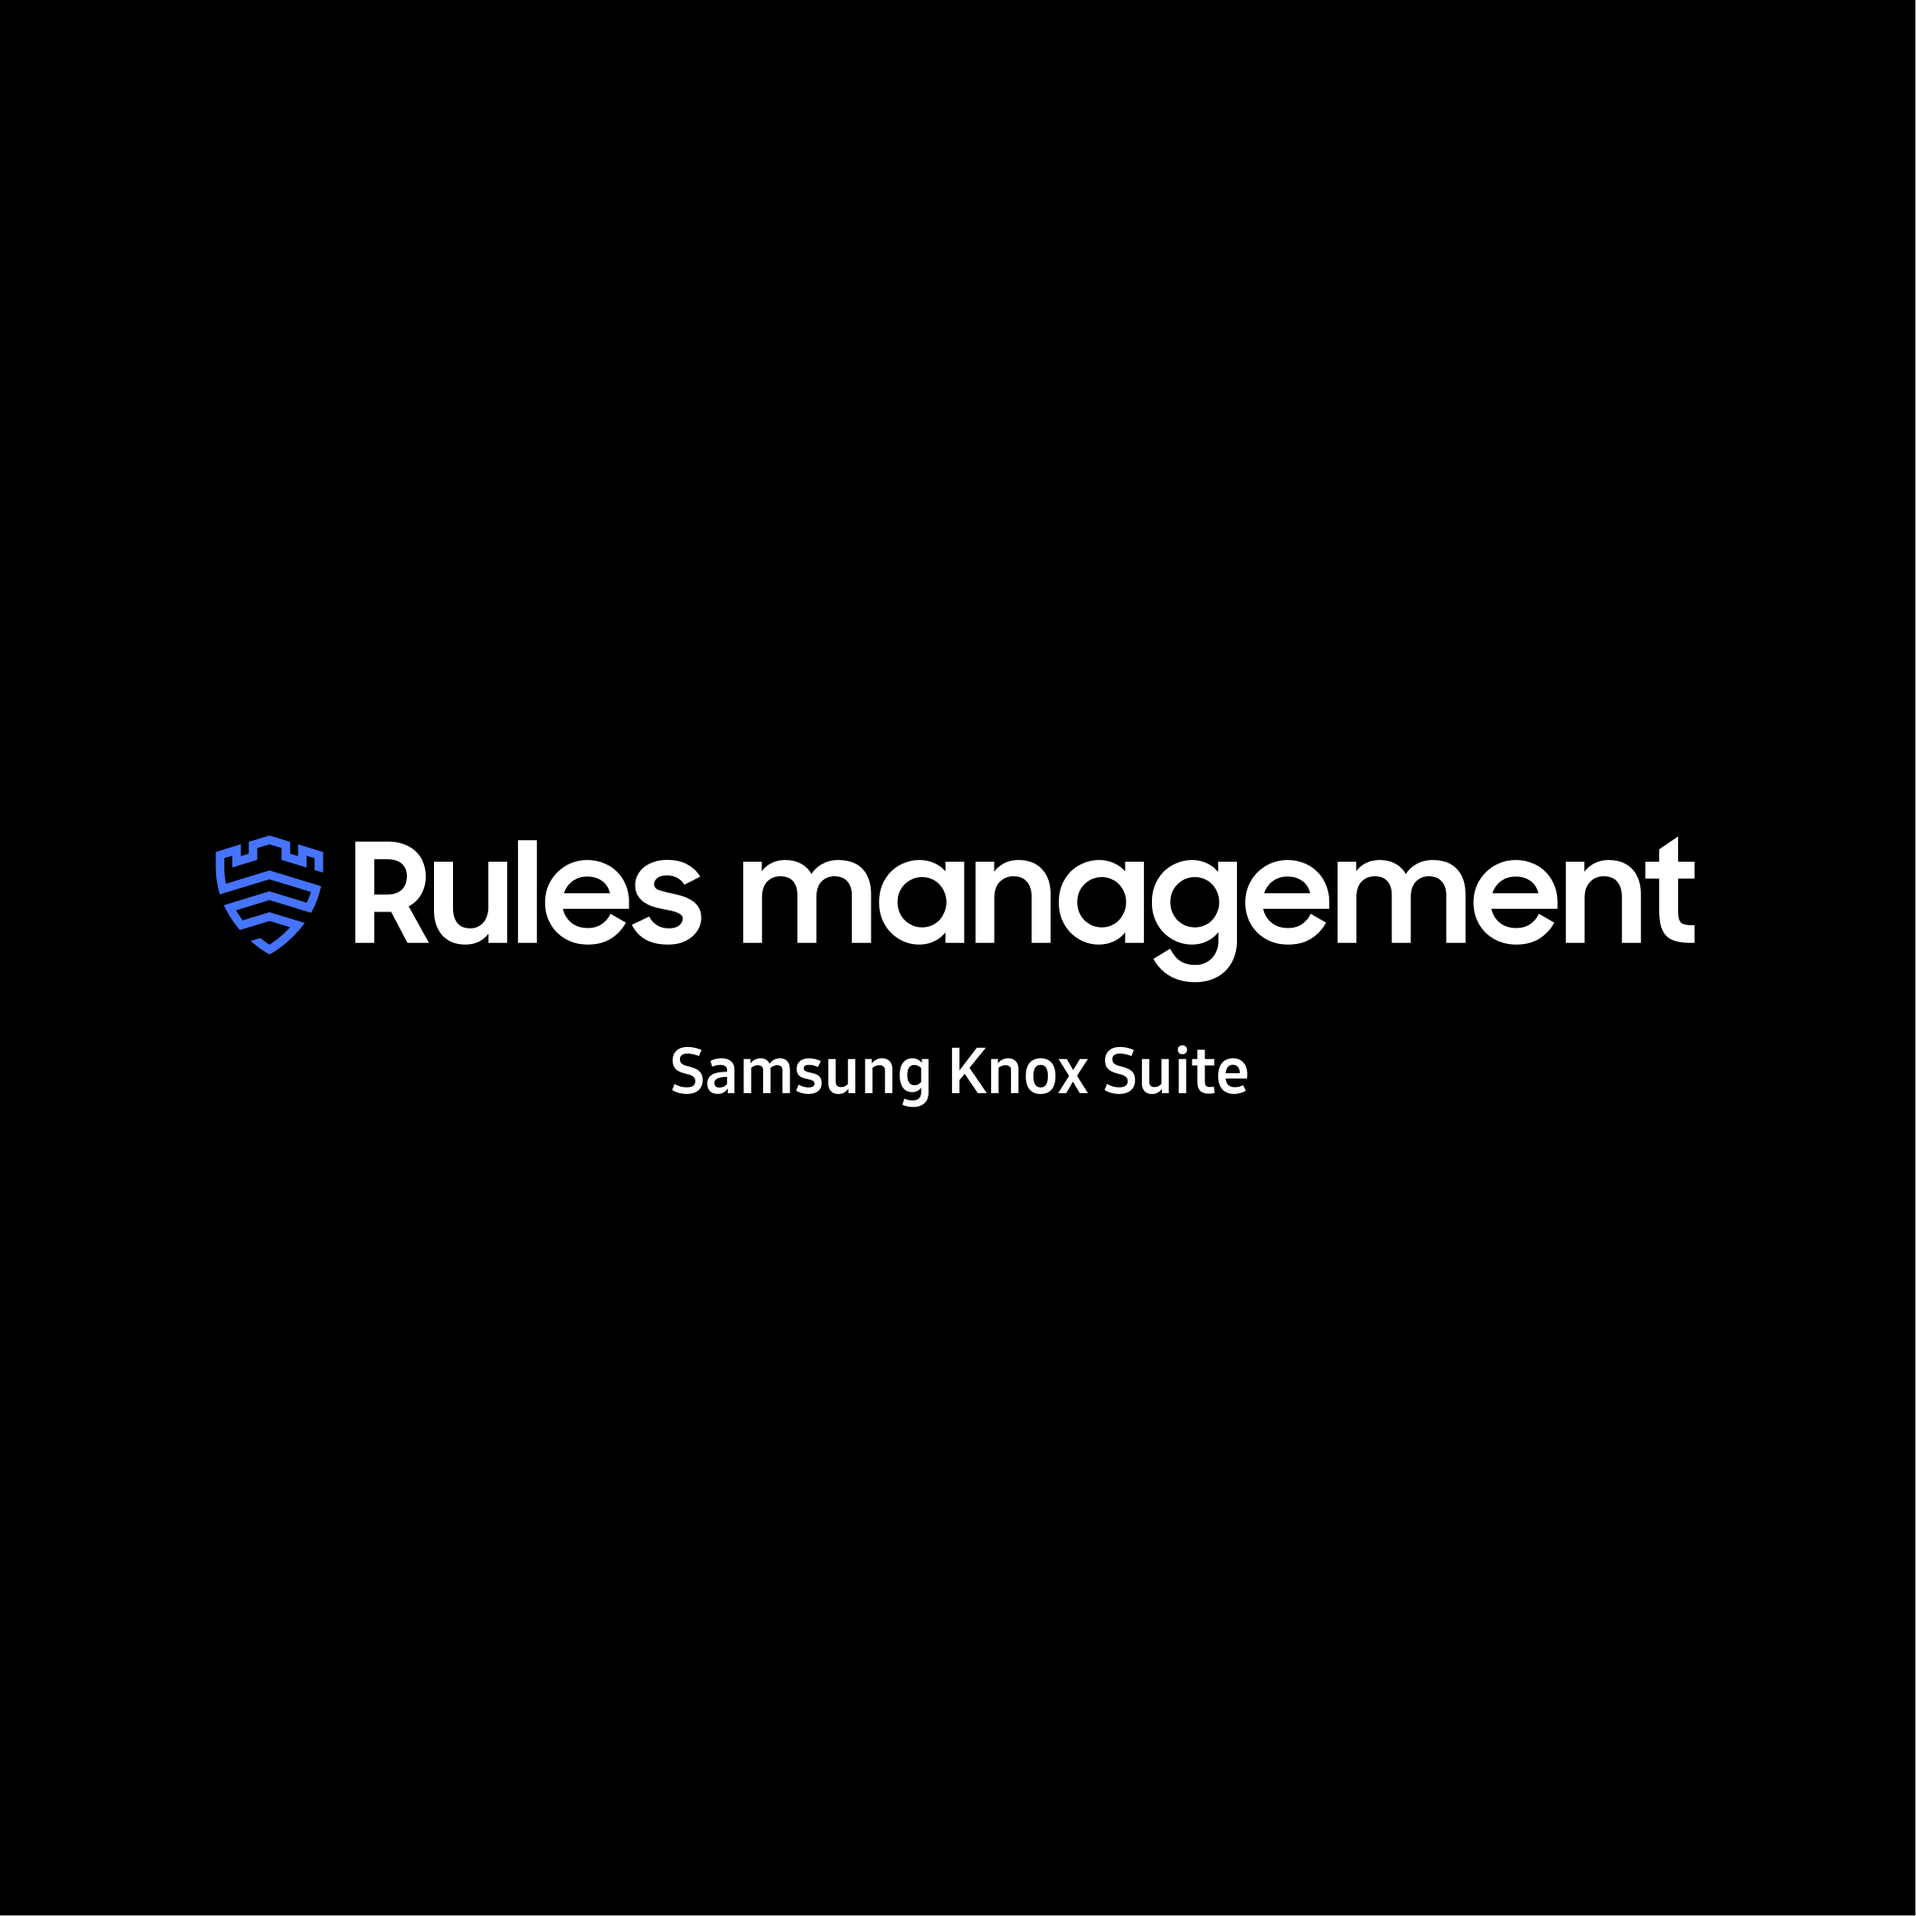
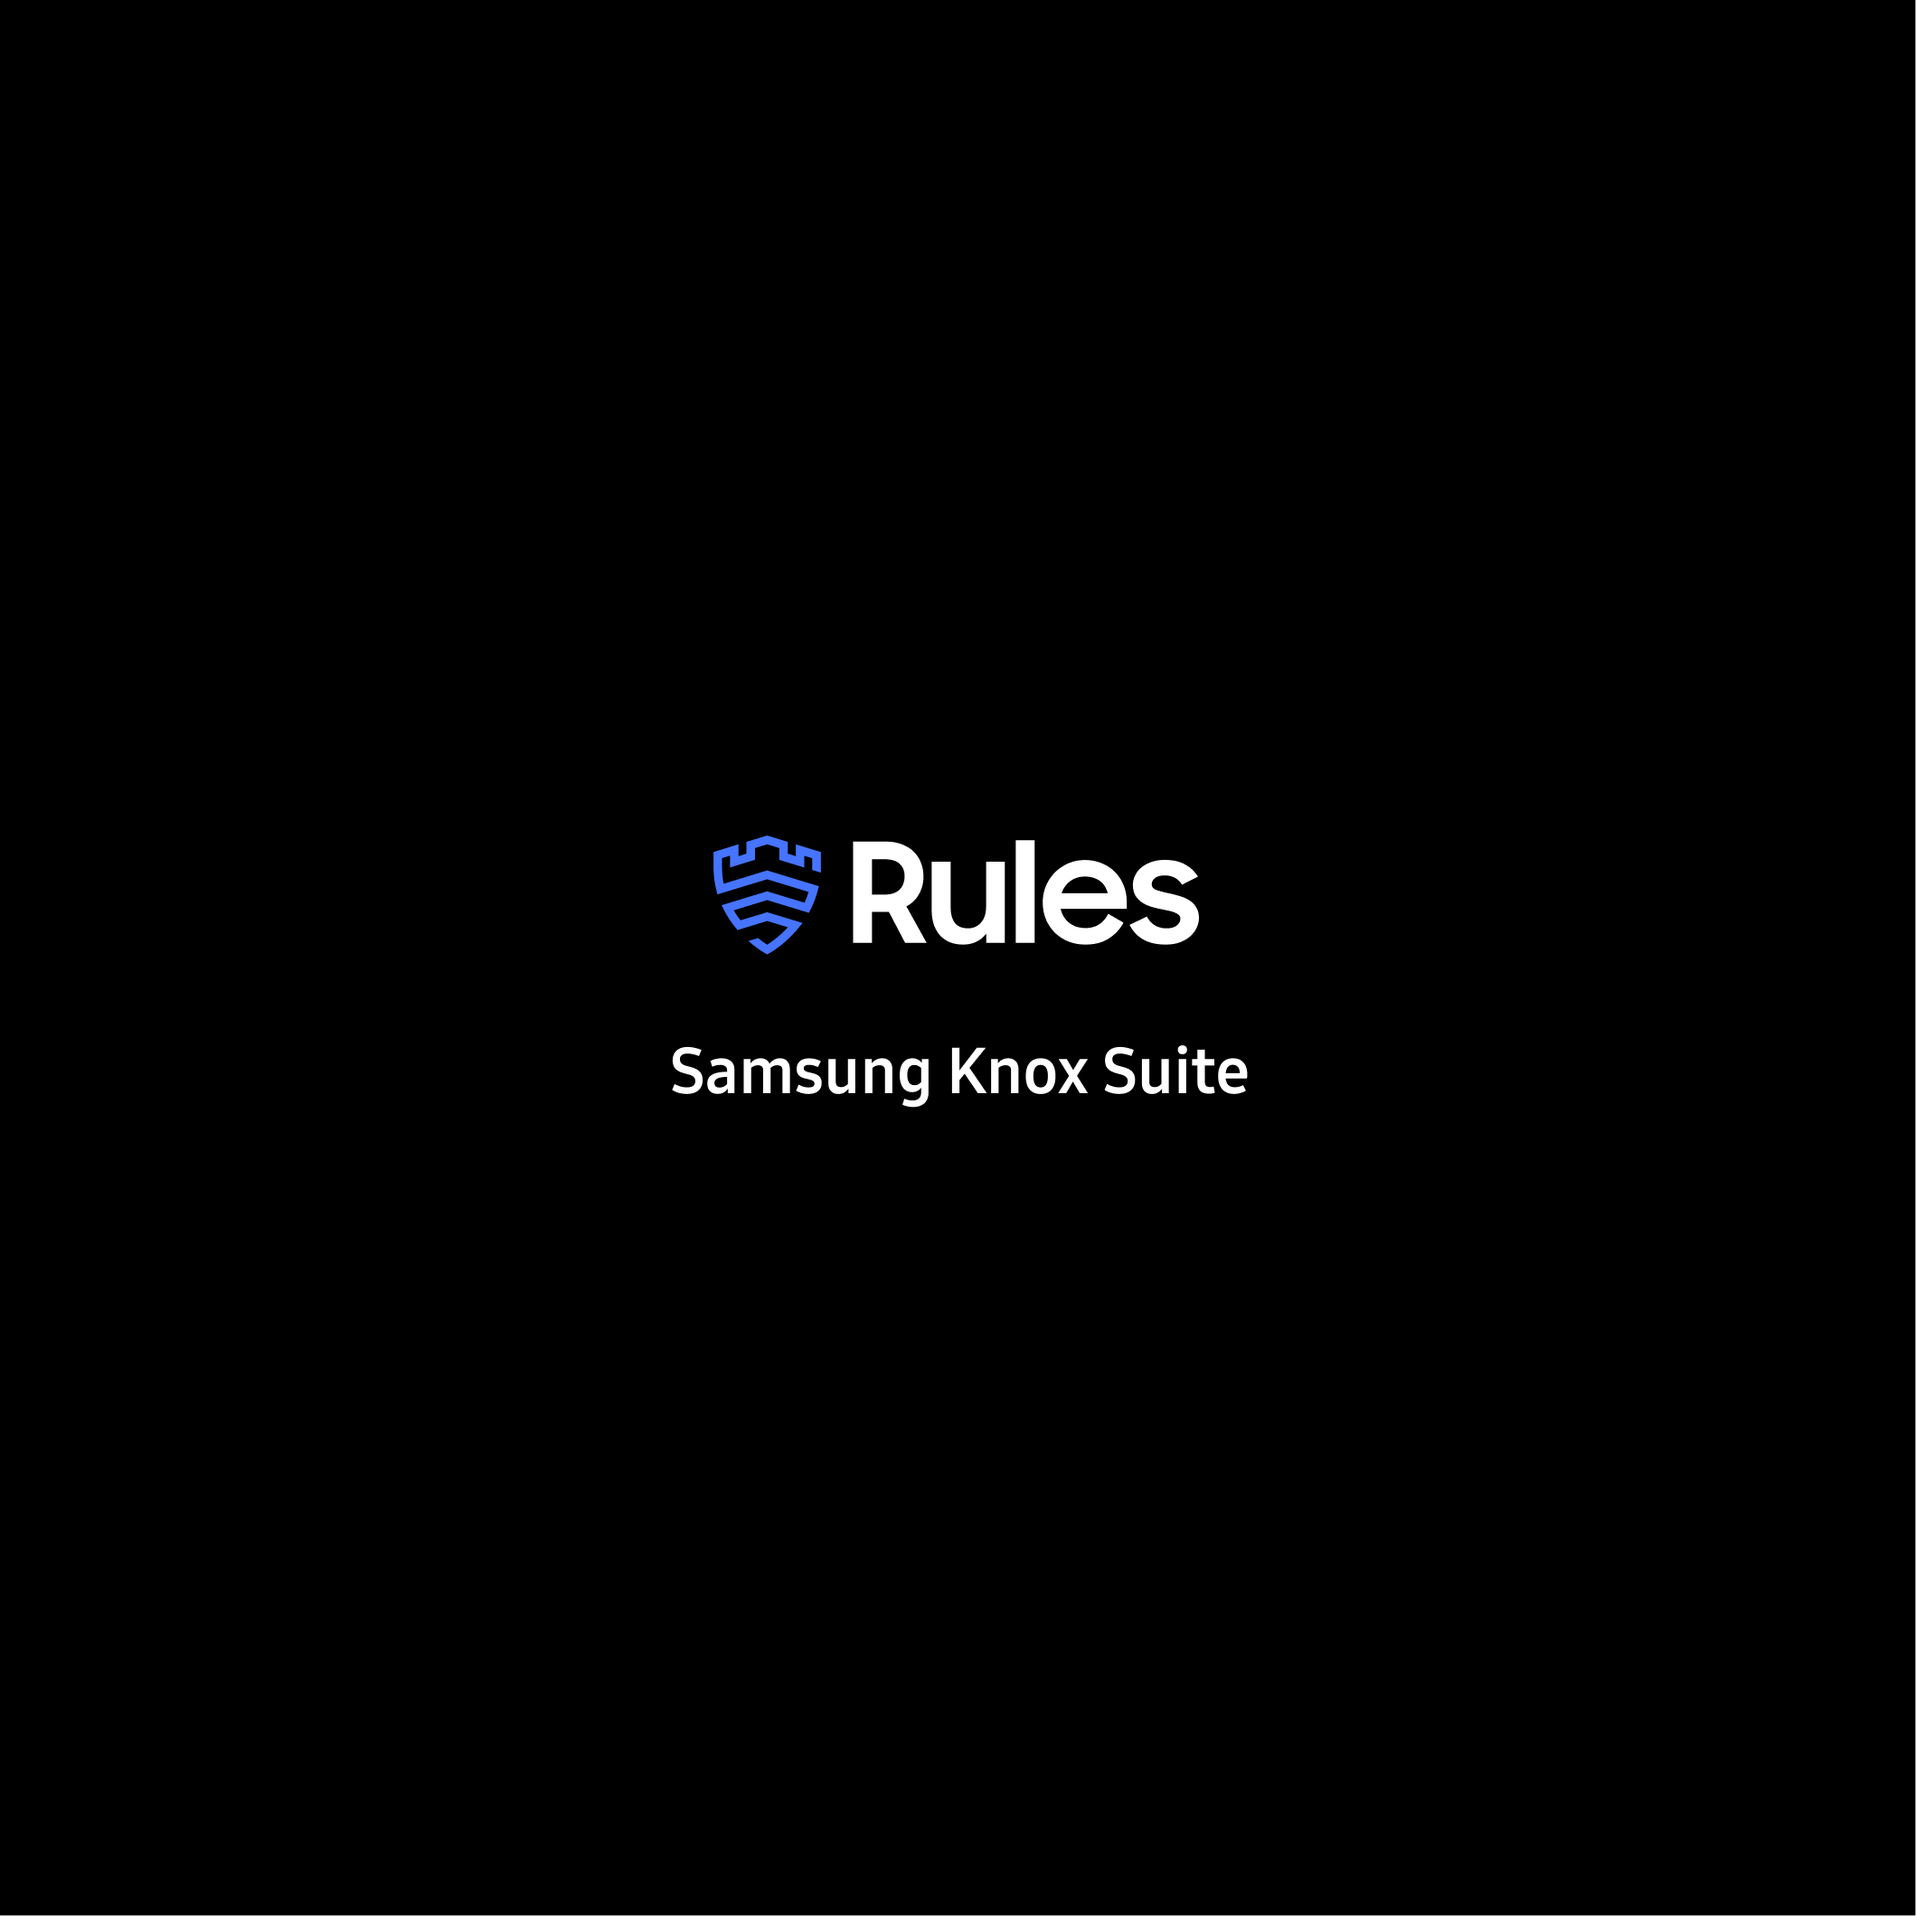
add more pics???

Changed region(s): [[0.0934, 0.4361, 0.9033, 0.5295]]

diff --git a/app/page.tsx b/app/page.tsx
@@ -24,7 +24,7 @@ export default function Home() {
       <div className="mt-20 md:mt-30 pb-15 md:pb-30">
         {/* <p className="text-lg md:text-2xl text-[var(--colour-bodytext)] mb-5 md:mb-9">Some of my works...</p> */}
         {/* <ProjectThumbnail link="/samsungknox" name="Samsung Knox Manage" description="Samsung Knox Manage is a cloud-based Enterprise Mobility Management (EMM) solution for businesses to deploy, secure, and manage mobile devices." tag1="UX design internship" tag2="8 months" tag3="B2B UX" imageSrc="/knox.png" colourCode="var(--colour-samsung)" /> */}
-        <ProjectThumbnail2 link="/rules" name="Samsung Knox Manage: Rules management" description="A feature in Samsung&rsquo;s EMM solution, Knox Manage, that lets IT admins create various device management rules, which monitor device activity and streamline enterprise mobility management." tag1="UX design" tag2="8 months" tag3="B2B UX" imageSrc="/rules.png" image2Src="/rules-2.png" colourCode="#000000" />
+        <ProjectThumbnail link="/rules" name="Samsung Knox Manage: Rules" description="A feature in Samsung&rsquo;s EMM solution, Knox Manage, that lets IT admins create various device management rules, which monitor device activity and streamline enterprise mobility management." tag1="UX design" tag2="8 months" tag3="B2B UX" imageSrc="/rules.png" image2Src="/rules-2.png" colourCode="#1b1b1b" />
         <ProjectThumbnail link="/organizations" name="Samsung Knox Manage: Organizations" description="A feature in Samsung&rsquo;s EMM solution, Knox Manage, that allows IT admins to categorize their devices based on organizational structure, simplifying device management tasks." tag1="UX design" tag2="8 months" tag3="B2B UX" imageSrc="/organization.png" image2Src="/organization-2.png" colourCode="#ECECEC" />
         <ProjectThumbnail link="/demo" name="Samsung Knox: Knox Demo Kit" description="Designed an interactive demo kit for Samsung Knox Cloud Service to showcase its key features and unique selling points to enterprise clients." tag1="UX design" tag2="8 months" tag3="B2B UX" imageSrc="/demo.png" image2Src="/demo-2.png" colourCode="#1E47C1" />
 

diff --git a/app/demo/page.tsx b/app/demo/page.tsx
@@ -46,7 +46,7 @@ export default function Demo () {
                     <Button variant="blue-hyperlink" link="/play" text="View more projects in Play page." textSize="text-md" target="_self"></Button>
                 </div>
                 <div className="grid grid-cols-1 md:grid-cols-2 gap-5">
-                    <PlayProject target="_self" link="/rules" name="Samsung Knox Manage: Rules management" description="A feature in Samsung&rsquo;s EMM solution, Knox Manage, that lets IT admins create various device management rules, which monitor device activity and streamline enterprise mobility management." tag1="UX design" tag2="B2B UX" imageSrc="/rules-sq.png" />
+                    <PlayProject target="_self" link="/rules" name="Samsung Knox Manage: Rules" description="A feature in Samsung&rsquo;s EMM solution, Knox Manage, that lets IT admins create various device management rules, which monitor device activity and streamline enterprise mobility management." tag1="UX design" tag2="B2B UX" imageSrc="/rules-sq.png" />
                     <PlayProject target="_self" link="/organizations" name="Samsung Knox Manage: Organizations" description="A feature in Samsung&rsquo;s EMM solution, Knox Manage, that allows IT admins to categorize their devices based on organizational structure, simplifying device management tasks." tag1="UX design" tag2="B2B UX" imageSrc="/organization-sq.png" />
                     {/* <PlayProject target="_self" link="/cardio" name="card.io" description="Designing a Spotify feature that guides users in creating personalized cardio playlists, helping them feel confident and in control." tag1="UX design" tag2="B2C UX" imageSrc="/cardio.png" /> */}
                     {/* <PlayProject target="_self" link="/jackalope" name="Jackalope AI is a guide for international students." description="Social event and community finder app, helping international students settle into a new country, with AI-powered suggestions and built-in feedback mechanisms." tag1="UX design & research" tag2="B2C UX" imageSrc="/jackalope.png" /> */}

diff --git a/app/organizations/page.tsx b/app/organizations/page.tsx
@@ -49,7 +49,7 @@ export default function Organizations () {
                     <Button variant="blue-hyperlink" link="/play" text="View more projects in Play page." textSize="text-md" target="_self"></Button>
                 </div>
                 <div className="grid grid-cols-1 md:grid-cols-2 gap-5">
-                    <PlayProject target="_self" link="/rules" name="Samsung Knox Manage: Rules management" description="A feature in Samsung&rsquo;s EMM solution, Knox Manage, that lets IT admins create various device management rules, which monitor device activity and streamline enterprise mobility management." tag1="UX design" tag2="B2B UX" imageSrc="/rules-sq.png" />
+                    <PlayProject target="_self" link="/rules" name="Samsung Knox Manage: Rules" description="A feature in Samsung&rsquo;s EMM solution, Knox Manage, that lets IT admins create various device management rules, which monitor device activity and streamline enterprise mobility management." tag1="UX design" tag2="B2B UX" imageSrc="/rules-sq.png" />
                     <PlayProject target="_self" link="/demo" name="Samsung Knox: Demo Kit" description="Designing an interactive demo kit for Samsung Knox Cloud Service to showcase its key features and unique selling points to enterprise clients." tag1="UX design" tag2="B2B UX" imageSrc="/demo-sq.png" />
                     {/* <PlayProject target="_self" link="/cardio" name="card.io" description="Designing a Spotify feature that guides users in creating personalized cardio playlists, helping them feel confident and in control." tag1="UX design" tag2="B2C UX" imageSrc="/cardio.png" /> */}
                     {/* <PlayProject target="_self" link="/jackalope" name="Jackalope AI is a guide for international students." description="Social event and community finder app, helping international students settle into a new country, with AI-powered suggestions and built-in feedback mechanisms." tag1="UX design & research" tag2="B2C UX" imageSrc="/jackalope.png" /> */}

diff --git a/app/rules/page.tsx b/app/rules/page.tsx
@@ -10,7 +10,7 @@ export default function Rules () {
         <div>
             <div className="px-9 md:px-22 w-full">
                 <ProjectHero 
-                name="Knox Manage: Compliance rules" 
+                name="Knox Manage: Rules" 
                 colourCode="var(--colour-samsung)" 
                 description={
                     <>
